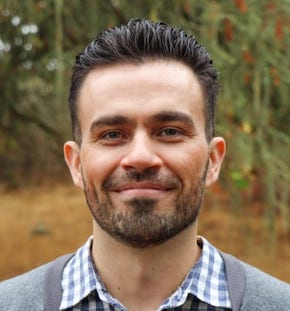
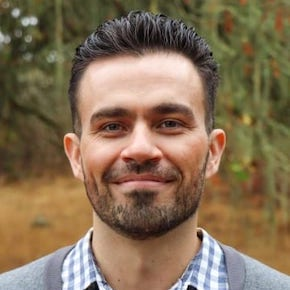
Updated circle styling and set width and image on LCP.

diff --git a/apps/rshogancom/pages/index.tsx b/apps/rshogancom/pages/index.tsx
@@ -64,7 +64,9 @@ export function Index() {
             objectFit="contain"
             objectPosition="center"
             src={HeroImg}
-            className="rounded-lg"
+            width={290}
+            height={290}
+            className="rounded-full"
             alt="Robert's Professional Shot"
           />
         </div>
